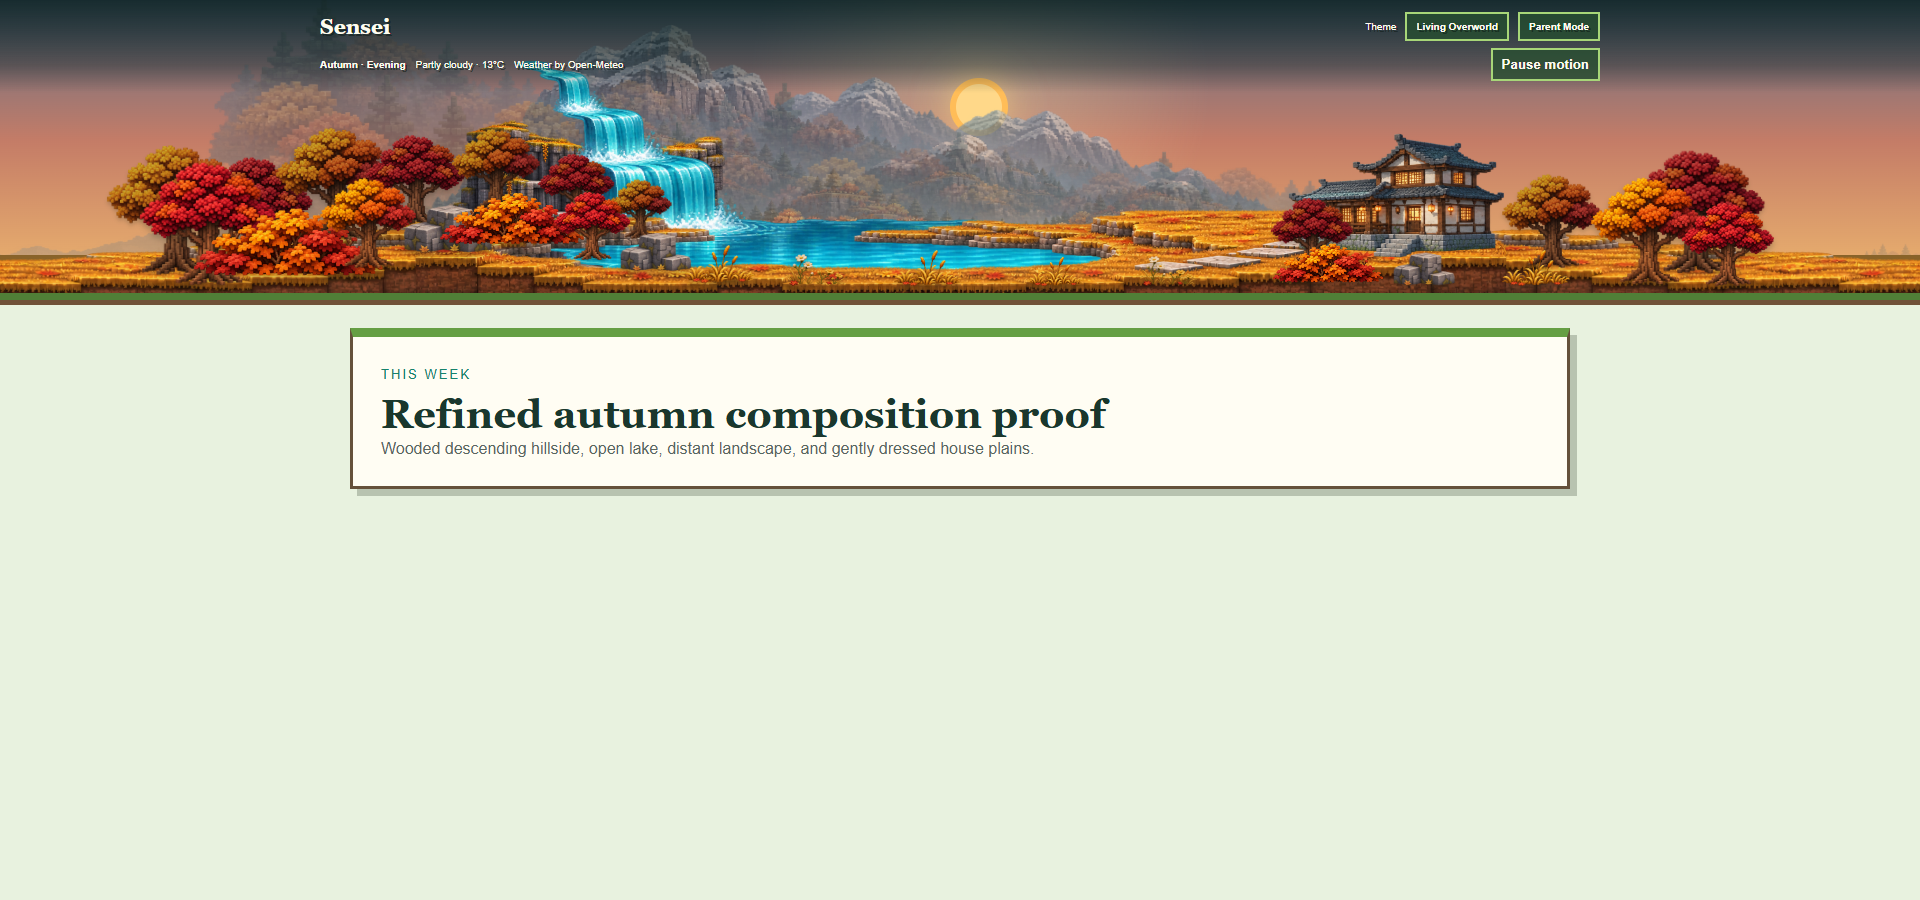
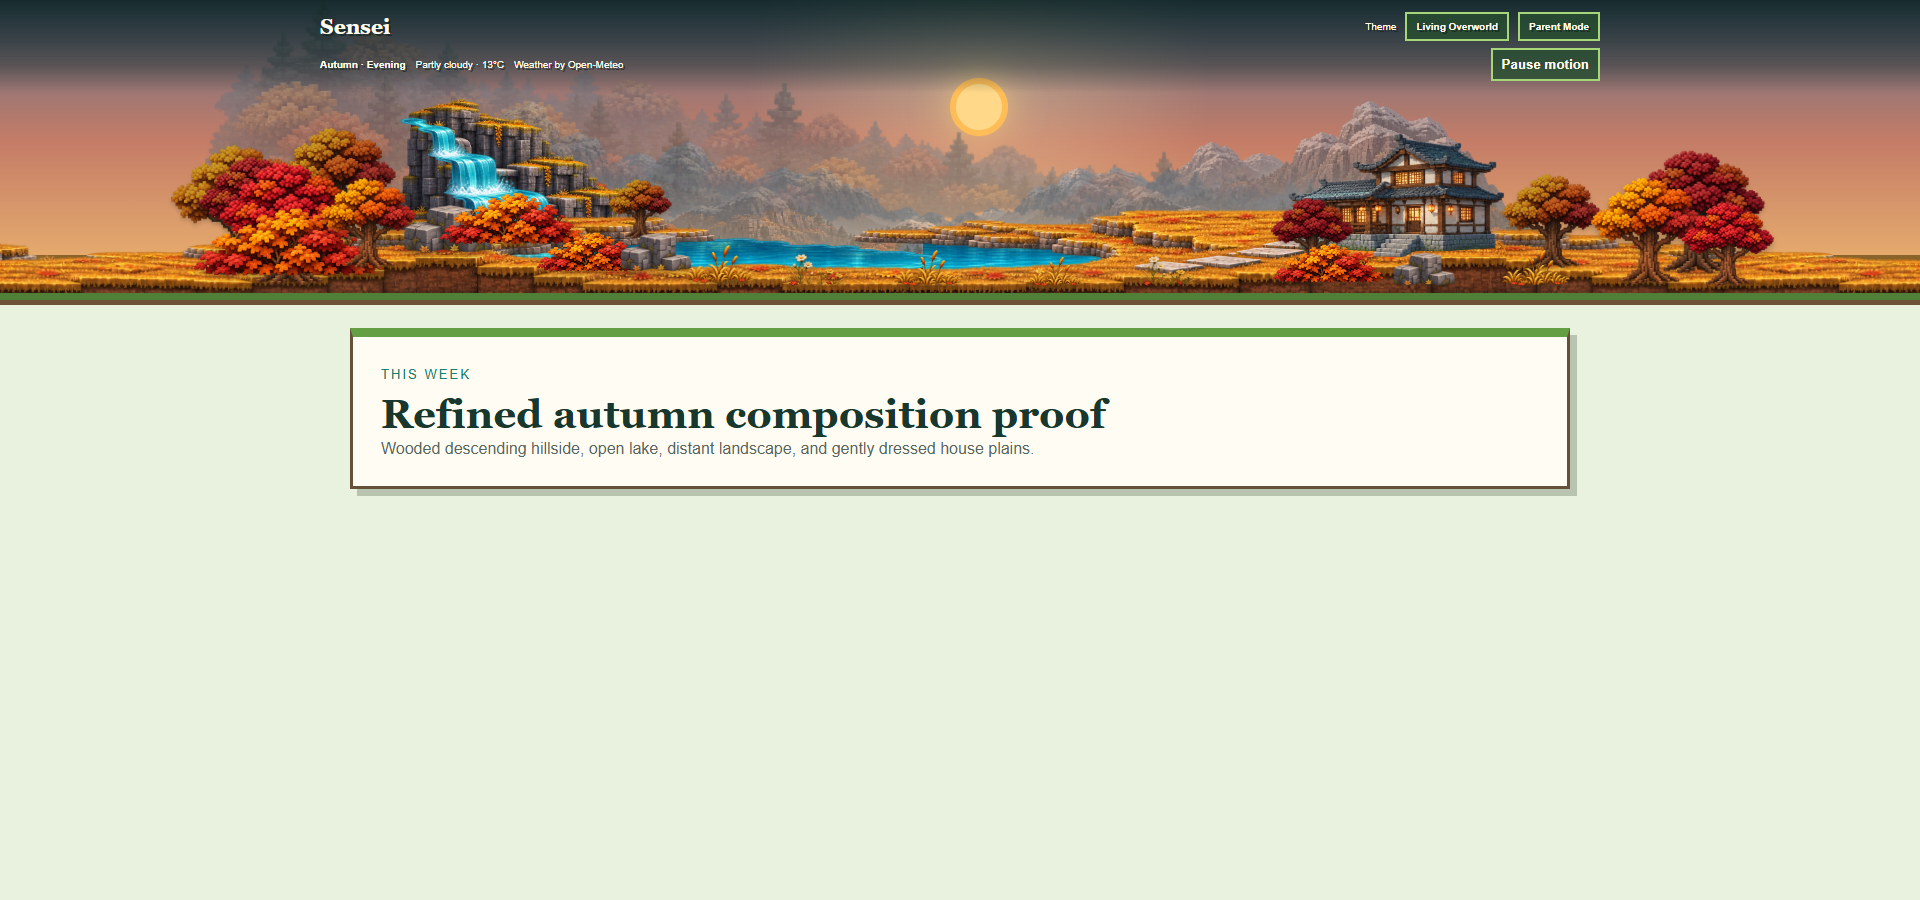
art: correct autumn proof geometry

Changed region(s): [[0.0, 0.0622, 0.75, 0.3422], [0.75, 0.1867, 0.7812, 0.2489]]

diff --git a/docs/prototypes/living-overworld-autumn-rich.html b/docs/prototypes/living-overworld-autumn-rich.html
@@ -11,15 +11,19 @@
     .sky-glow { position: absolute; inset: 0; background: radial-gradient(circle at 51% 30%, rgba(255,237,178,.32), transparent 23%); }
     .sun { position: absolute; z-index: 1; left: 51%; top: 78px; translate: -50%; width: 58px; aspect-ratio: 1; border-radius: 50%; background: #ffd889; border: 6px solid #ffbd58; box-shadow: 0 0 35px rgba(255,214,125,.62); }
     .layer { position: absolute; height: auto; pointer-events: none; user-select: none; }
-    .mountain { z-index: 2; bottom: -3px; opacity: .68; filter: saturate(.64) brightness(.82); }
-    .mountain.primary { left: 45%; width: 980px; translate: -50%; }
-    .mountain.left { left: -150px; bottom: -25px; width: 690px; opacity: .27; }
-    .mountain.right { right: -110px; bottom: -36px; width: 620px; opacity: .2; }
+    .mountain { z-index: 2; bottom: -18px; opacity: .58; filter: saturate(.58) brightness(.82); }
+    .mountain.valley-left { left: calc(50% - 660px); width: 760px; }
+    .mountain.valley-right { left: calc(50% - 120px); width: 760px; transform: scaleX(-1); }
+    .mountain.distant-left { left: -140px; bottom: -38px; width: 620px; opacity: .15; }
+    .mountain.distant-right { right: -100px; bottom: -42px; width: 560px; opacity: .12; }
     .forest { z-index: 3; left: 43%; bottom: -4px; width: 1260px; translate: -50%; opacity: .5; filter: saturate(.72) brightness(.75); }
     .ground-band { position: absolute; z-index: 3; left: 0; right: 0; bottom: 0; height: 38px; background: linear-gradient(#896329 0 18%, #6f4d2a 19% 34%, #4c351f 35%); }
-    .hillside { z-index: 4; left: calc(50% - 800px); bottom: -2px; width: 580px; }
-    .outcrop { z-index: 5; left: calc(50% - 545px); bottom: 1px; width: 570px; }
-    .water { z-index: 6; left: calc(50% - 510px); bottom: -2px; width: 860px; }
+    .hillside { z-index: 4; left: calc(50% - 1260px); bottom: -12px; width: 920px; }
+    .lake-extension { z-index: 5; left: calc(50% - 310px); bottom: -2px; width: 650px; clip-path: inset(0 0 0 42%); }
+    .waterfall-system { position: absolute; z-index: 6; left: calc(50% - 610px); bottom: -2px; width: 650px; aspect-ratio: 2172 / 724; pointer-events: none; }
+    .waterfall-system img { position: absolute; inset: 0; width: 100%; height: 100%; object-fit: contain; }
+    .waterfall-system .outcrop { z-index: 1; }
+    .waterfall-system .water { z-index: 2; }
     .meadow { z-index: 6; bottom: -20px; width: 1100px; }
     .meadow.left { right: calc(50% + 500px); }
     .meadow.right { left: calc(50% + 500px); transform: scaleX(-1); }
@@ -30,6 +34,11 @@
     .scene-object.back { z-index: 1; filter: brightness(.82) saturate(.84) drop-shadow(0 3px 2px rgba(20,34,22,.18)); }
     .scene-object.front { z-index: 3; }
     @media (max-width: 1300px) { .scene-object.wide-only { display: none; } }
+    @media (min-width: 701px) and (max-width: 1300px) {
+      .hillside { left: -300px; }
+      .waterfall-system { left: 0; }
+      .lake-extension { left: 300px; }
+    }
     .header { position: absolute; z-index: 20; inset: 0 0 auto; min-height: 86px; padding: 12px max(18px, calc((100vw - 1280px) / 2)); background: linear-gradient(180deg, rgba(9,29,27,.82), rgba(9,29,27,.38) 70%, transparent); text-shadow: 2px 2px rgba(12,26,20,.55); }
     .header-main, .header-status { display: flex; align-items: center; gap: 10px; }
     .brand { font-family: Georgia, serif; font-size: 21px; font-weight: 700; }
@@ -44,13 +53,14 @@
     @media (max-width: 700px) {
       .scene { height: 175px; }
       .sun { top: 64px; width: 42px; border-width: 4px; }
-      .mountain.primary { left: 45%; width: 430px; }
-      .mountain.left, .mountain.right { display: none; }
+      .mountain.valley-left { left: -20px; width: 360px; bottom: -8px; }
+      .mountain.valley-right { left: 50px; width: 360px; bottom: -8px; }
+      .mountain.distant-left, .mountain.distant-right { display: none; }
       .forest { left: 42%; width: 500px; bottom: -1px; opacity: .34; }
       .ground-band { height: 20px; }
-      .hillside { left: -125px; bottom: 2px; width: 285px; }
-      .outcrop { left: -50px; bottom: 5px; width: 305px; }
-      .water { left: -8px; bottom: 2px; width: 420px; }
+      .hillside { left: -220px; bottom: -3px; width: 470px; }
+      .lake-extension { left: 120px; bottom: 2px; width: 330px; }
+      .waterfall-system { left: 0; bottom: 2px; width: 330px; }
       .meadow { display: none; }
       .ground { width: 435px; bottom: -5px; }
       .house { right: -8px; bottom: -2px; width: 365px; }
@@ -72,36 +82,37 @@
 <body>
   <section class="scene" aria-label="Refined rich autumn Living Overworld composition proof">
     <div class="sky-glow"></div><div class="sun"></div>
-    <img class="layer mountain left" src="../../public/assets/living-overworld/autumn-modular/distant-a.png" alt="">
-    <img class="layer mountain primary" src="../../public/assets/living-overworld/autumn-structural/mountains.png" alt="">
-    <img class="layer mountain right" src="../../public/assets/living-overworld/autumn-modular/distant-b.png" alt="">
+    <img class="layer mountain distant-left" src="../../public/assets/living-overworld/autumn-modular/distant-a.png" alt="">
+    <img class="layer mountain valley-left" src="../../public/assets/living-overworld/autumn-structural/mountains.png" alt="">
+    <img class="layer mountain valley-right" src="../../public/assets/living-overworld/autumn-structural/mountains.png" alt="">
+    <img class="layer mountain distant-right" src="../../public/assets/living-overworld/autumn-modular/distant-b.png" alt="">
     <img class="layer forest" src="../../public/assets/living-overworld/autumn-rich-proof/distant-forest.png" alt="">
     <div class="ground-band"></div>
-    <img class="layer hillside" src="../../public/assets/living-overworld/autumn-rich-proof/rocky-hillside.png" alt="">
-    <img class="layer outcrop" src="../../public/assets/living-overworld/autumn-structural/waterfall-outcrop.png" alt="">
-    <img class="layer water" src="../../public/assets/living-overworld/autumn-structural/water-connected.png" alt="">
+    <img class="layer hillside" src="../../public/assets/living-overworld/autumn-modular/terrain-left.png" alt="">
+    <img class="layer lake-extension" src="../../public/assets/living-overworld/autumn-structural/water-connected.png" alt="">
+    <div class="waterfall-system" data-geometry="aligned-water-and-outcrop">
+      <img class="outcrop" src="../../public/assets/living-overworld/autumn-structural/waterfall-outcrop.png" alt="">
+      <img class="water" src="../../public/assets/living-overworld/autumn-structural/water-connected.png" alt="">
+    </div>
     <img class="layer meadow left" src="../../public/assets/living-overworld/autumn-structural/meadow-extension.png" alt="">
     <img class="layer meadow right" src="../../public/assets/living-overworld/autumn-structural/meadow-extension.png" alt="">
     <img class="layer ground" src="../../public/assets/living-overworld/autumn-structural/ground.png" alt="">
     <img class="layer house" src="../../public/assets/living-overworld/retreat.png" alt="">
     <div class="object-stage">
-      <img class="scene-object back" style="--x:1%;--b:5%;--h:136px" src="../../public/assets/living-overworld/autumn-modular/objects/tree.png" alt="">
+      <img class="scene-object back" style="--x:5%;--b:5%;--h:136px" src="../../public/assets/living-overworld/autumn-modular/objects/tree.png" alt="">
       <img class="scene-object back desktop-detail" style="--x:6%;--b:11%;--h:105px" src="../../public/assets/living-overworld/autumn-modular/objects/tree-red.png" alt="">
       <img class="scene-object back" style="--x:11%;--b:17%;--h:118px" src="../../public/assets/living-overworld/autumn-modular/objects/tree.png" alt="">
-      <img class="scene-object back desktop-detail" style="--x:16%;--b:23%;--h:92px" src="../../public/assets/living-overworld/autumn-modular/objects/tree-red.png" alt="">
-      <img class="scene-object back" style="--x:21%;--b:27%;--h:87px" src="../../public/assets/living-overworld/autumn-modular/objects/tree.png" alt="">
-      <img class="scene-object back desktop-detail" style="--x:26%;--b:24%;--h:70px" src="../../public/assets/living-overworld/autumn-modular/objects/tree-red.png" alt="">
       <img class="scene-object back desktop-detail" style="--x:30%;--b:18%;--h:62px" src="../../public/assets/living-overworld/autumn-modular/objects/tree.png" alt="">
       <img class="scene-object back" style="--x:72%;--b:7%;--h:76px" src="../../public/assets/living-overworld/autumn-modular/objects/tree-red.png" alt="">
       <img class="scene-object back desktop-detail" style="--x:87%;--b:8%;--h:98px" src="../../public/assets/living-overworld/autumn-modular/objects/tree.png" alt="">
       <img class="scene-object back wide-only" style="--x:96%;--b:6%;--h:126px" src="../../public/assets/living-overworld/autumn-modular/objects/tree-red.png" alt="">
 
-      <img class="scene-object front" style="--x:3%;--b:2%;--h:126px" src="../../public/assets/living-overworld/autumn-modular/objects/tree-red.png" alt="">
+      <img class="scene-object front" style="--x:8%;--b:2%;--h:126px" src="../../public/assets/living-overworld/autumn-modular/objects/tree-red.png" alt="">
       <img class="scene-object front desktop-detail" style="--x:8%;--b:5%;--h:72px" src="../../public/assets/living-overworld/autumn-modular/objects/bush.png" alt="">
       <img class="scene-object front" style="--x:13%;--b:8%;--h:94px" src="../../public/assets/living-overworld/autumn-modular/objects/tree.png" alt="">
       <img class="scene-object front desktop-detail" style="--x:18%;--b:13%;--h:52px" src="../../public/assets/living-overworld/autumn-modular/objects/rock.png" alt="">
       <img class="scene-object front desktop-detail" style="--x:22%;--b:16%;--h:55px" src="../../public/assets/living-overworld/autumn-modular/objects/bush.png" alt="">
-      <img class="scene-object front" style="--x:27%;--b:11%;--h:70px" src="../../public/assets/living-overworld/autumn-modular/objects/tree-red.png" alt="">
+      <img class="scene-object front" style="--x:27%;--b:7%;--h:42px" src="../../public/assets/living-overworld/autumn-modular/objects/bush.png" alt="">
       <img class="scene-object front desktop-detail" style="--x:31%;--b:7%;--h:42px" src="../../public/assets/living-overworld/autumn-modular/objects/rock.png" alt="">
       <img class="scene-object front" style="--x:35%;--b:3%;--h:40px" src="../../public/assets/living-overworld/autumn-modular/objects/grass.png" alt="">
       <img class="scene-object front" style="--x:41%;--b:2%;--h:34px" src="../../public/assets/living-overworld/autumn-modular/objects/flowers.png" alt="">

diff --git a/docs/LIVING_OVERWORLD_AUTUMN_GEOMETRY_HANDOFF.md b/docs/LIVING_OVERWORLD_AUTUMN_GEOMETRY_HANDOFF.md
@@ -1,0 +1,63 @@
+# Living Overworld — Autumn Geometry-Correction Proof
+
+Status: isolated proof ready for Product Owner visual review. Runtime integration remains unauthorized.
+
+## Reference use
+
+The supplied sunset landscape guided the broad geometry only: descending wooded terrain, a connected waterfall and lake, two mountain groups around a central valley, and open house plains. The reference image is not included in or rendered by the proof.
+
+No new artwork was generated. This pass uses only the existing Sensei modular and structural assets.
+
+## Checkpoint A — Waterfall continuity
+
+Complete.
+
+- The outcrop and connected-water images now share the exact same frame, scale, and anchor.
+- The upper stream crosses the upper ledge before the first fall.
+- Each cascade visibly reaches its receiving terrace.
+- The final cascade and foam enter the lake.
+- Water renders above the cliff face while the authored rock lips remain visible through the original transparent geometry.
+- A lake-only duplicate extends the open water without duplicating the cascades.
+
+Evidence: [waterfall close-up](assets/screenshots/living-overworld-autumn-rich-waterfall-closeup.png).
+
+## Checkpoint B — Grounding and hillside
+
+Complete.
+
+- Replaced the oversized connector in the active proof with the existing stepped `terrain-left.png` asset.
+- Concentrated the woodland on supported left-slope land and kept the cascade corridor visible.
+- Removed tree bases from the open-lake placement zone.
+- Retained low foreground shoreline vegetation while preserving the main water view.
+- Automated proof checks verify visible object base anchors remain within the scenic frame.
+
+## Checkpoint C — Mountain valley
+
+Complete.
+
+- Uses two instances of the existing structural mountain asset.
+- The right group is horizontally mirrored.
+- Their major masses frame a lower central saddle without requiring a new asset.
+- The sun remains centered within the opening and is checked responsively.
+
+## Checkpoint D — Responsive proof
+
+Complete.
+
+- [390px mobile](assets/screenshots/living-overworld-autumn-rich-mobile.png)
+- [1100px desktop](assets/screenshots/living-overworld-autumn-rich-desktop-1100.png)
+- [1920px desktop](assets/screenshots/living-overworld-autumn-rich-desktop-1920.png)
+- [32:9 ultrawide](assets/screenshots/living-overworld-autumn-rich-ultrawide-32x9.png)
+
+The capture check verifies asset loading, waterfall layer alignment, object-base bounds, an open lake free of tree bases, centered celestial placement, controlled scene heights, browser errors, and horizontal overflow.
+
+## Known limitations
+
+- The lake extension reuses a cropped portion of the existing connected-water asset; final runtime integration should verify its blend under every lighting treatment.
+- Object grounding validation is intentionally lightweight and proof-specific, not a generalized collision or physics system.
+- The static proof does not exercise creatures, live weather, or moon phases.
+- The former generated rocky-hillside asset remains preserved but is explicitly inactive in this corrected proof.
+
+## Exact continuation point
+
+Await Product Owner visual acceptance. If accepted, a separately authorized runtime-integration pass should translate this proof geometry into the existing Living Overworld metadata, validate weather/creature occlusion, and run full application regression checks. If rejected, continue only in the isolated proof and preserve the aligned waterfall coordinate system.
